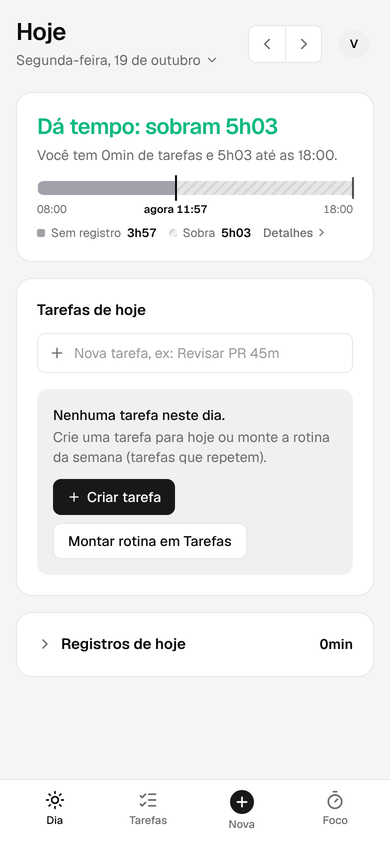
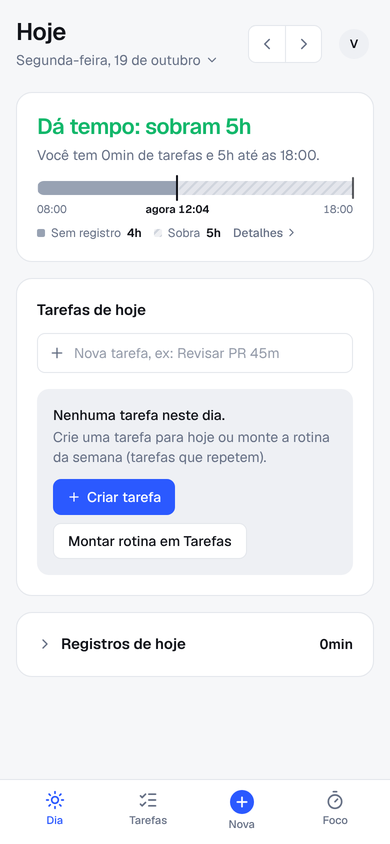
design: volta o azul de antes (Grafite ficou sem vida)
Mantém as melhorias de layout; só as cores, o ícone e as abas voltam.

Claude-Session: https://claude.ai/code/session_011nKegygvConS1RQqhHr1hx

diff --git a/src/app/globals.css b/src/app/globals.css
@@ -1,42 +1,42 @@
 @import "tailwindcss";
 
 /*
-  Identidade "Grafite": ação em preto (brand), cor só para informação.
   Cores com significado fixo em todo o app:
-  feito = verde · falta = azul · livre = hachurado · excesso = vermelho · accent = links
+  feito = verde · falta = azul (também a cor de ação: brand) · livre = hachurado · excesso = vermelho
+  (Grafite, com ação em preto, foi testado em 19/10 e descartado: ficou sem vida.)
 */
 :root {
-  --bg: #f5f5f4;
+  --bg: #f6f7f9;
   --surface: #ffffff;
-  --sunken: #f0f0ef;
-  --ink: #0c0c0d;
-  --muted: #6b6b70;
-  --line: #e7e7e5;
-  --brand: #18181b;
+  --sunken: #eef0f4;
+  --ink: #12141a;
+  --muted: #667085;
+  --line: #e4e7ec;
+  --brand: #2b59ff;
   --brand-ink: #ffffff;
-  --accent: #2f5fe8;
-  --done: #10b981;
-  --todo: #3b6cf6;
-  --free: #d4d4d8;
+  --accent: #2b59ff;
+  --done: #12b76a;
+  --todo: #2b59ff;
+  --free: #d0d5dd;
   --over: #f04438;
   --break: #f79009;
-  --idle: #a1a1aa;
+  --idle: #98a2b3;
 }
 
 @media (prefers-color-scheme: dark) {
   :root {
-    --bg: #0e0e10;
-    --surface: #18181b;
-    --sunken: #222226;
-    --ink: #ededee;
-    --muted: #9a9aa2;
-    --line: #2c2c31;
-    --brand: #f4f4f5;
-    --brand-ink: #0c0c0d;
-    --accent: #7c9cff;
-    --done: #34d399;
-    --todo: #6b8cff;
-    --free: #3f3f46;
+    --bg: #0d0f14;
+    --surface: #161a22;
+    --sunken: #1d222c;
+    --ink: #eceef2;
+    --muted: #8b93a5;
+    --line: #262c38;
+    --brand: #5b7fff;
+    --brand-ink: #ffffff;
+    --accent: #5b7fff;
+    --done: #32d583;
+    --todo: #5b7fff;
+    --free: #3a4150;
     --over: #f97066;
     --break: #fdb022;
     --idle: #5d6679;

diff --git a/src/components/App.tsx b/src/components/App.tsx
@@ -178,7 +178,7 @@ export function Shell() {
               className={cx(
                 "flex items-center gap-3 rounded-lg text-sm font-medium transition-colors",
                 collapsed ? "h-10 w-10 justify-center" : "w-full px-3 py-2",
-                isActive(t.id) ? "bg-sunken text-ink" : "text-muted hover:bg-sunken hover:text-ink",
+                isActive(t.id) ? "bg-todo/10 text-todo" : "text-muted hover:bg-sunken hover:text-ink",
               )}
             >
               <t.icon size={18} /> {!collapsed && t.label}
@@ -311,7 +311,7 @@ function LoadingSkeleton() {
 
 function MobileTab({ active, onClick, icon: Icon, label }: { active: boolean; onClick: () => void; icon: typeof Sun; label: string }) {
   return (
-    <button onClick={onClick} className={cx("flex flex-1 flex-col items-center gap-0.5 py-1 text-[11px] font-medium", active ? "text-ink" : "text-muted")}>
+    <button onClick={onClick} className={cx("flex flex-1 flex-col items-center gap-0.5 py-1 text-[11px] font-medium", active ? "text-todo" : "text-muted")}>
       <Icon size={20} />
       {label}
     </button>

diff --git a/src/components/LogTimeForm.tsx b/src/components/LogTimeForm.tsx
@@ -162,7 +162,7 @@ export function LogTimeForm({ task, onClose }: { task: Task; onClose: () => void
               </button>
               <button
                 onClick={() => start("pomodoro")}
-                className="flex h-14 items-center justify-center gap-2 rounded-xl border border-line font-semibold text-ink hover:bg-sunken"
+                className="flex h-14 items-center justify-center gap-2 rounded-xl border border-brand/40 font-semibold text-brand hover:bg-brand/[0.06]"
               >
                 <TimerIcon size={16} /> Pomodoro {settings.focusMin}min
               </button>

diff --git a/src/app/manifest.ts b/src/app/manifest.ts
@@ -7,8 +7,8 @@ export default function manifest(): MetadataRoute.Manifest {
     description: "Quanto cabe no seu dia, quanto já foi feito e quanto ainda sobra.",
     start_url: "/",
     display: "standalone",
-    background_color: "#f5f5f4",
-    theme_color: "#f5f5f4",
+    background_color: "#f6f7f9",
+    theme_color: "#f6f7f9",
     icons: [{ src: "/icon.svg", sizes: "any", type: "image/svg+xml" }],
   };
 }

diff --git a/src/app/layout.tsx b/src/app/layout.tsx
@@ -11,8 +11,8 @@ export const metadata: Metadata = {
 
 export const viewport: Viewport = {
   themeColor: [
-    { media: "(prefers-color-scheme: light)", color: "#f5f5f4" },
-    { media: "(prefers-color-scheme: dark)", color: "#0e0e10" },
+    { media: "(prefers-color-scheme: light)", color: "#f6f7f9" },
+    { media: "(prefers-color-scheme: dark)", color: "#0d0f14" },
   ],
 };
 

diff --git a/CLAUDE.md b/CLAUDE.md
@@ -116,7 +116,7 @@ Toda mudança de conta ganha teste em `metrics.test.ts`.
 
 - **Next 16**: confira a doc em `node_modules/next/dist/docs/` antes de usar APIs de rota/servidor. `AGENTS.md` é mantido pelo `next dev`; se ele aparecer modificado, commite junto (o próprio arquivo pede isso).
 - **React Compiler lint** (`react-hooks/purity`, `set-state-in-effect`): nada de `Date.now()` no render; use `useNow()` (`Timer.tsx`) ou estado iniciado em efeito.
-- **Cores** (`globals.css`): `brand` = ação (preto no claro, quase branco no escuro; texto em cima é `text-brand-ink`, nunca `text-white`); `accent` = links; `done`/`todo`/`over`/`idle` = significado nos dados. Não use `todo` para botão.
+- **Cores** (`globals.css`): `brand` = ação (azul; texto em cima é `text-brand-ink`); `accent` = links; `done`/`todo`/`over`/`idle` = significado nos dados. O dono preferiu o azul ao visual preto e branco (ver decisões).
 - **Não rode prettier no arquivo inteiro**: o projeto usa linhas longas (~160) e não tem config; o diff vira ruído.
 - **Fuso**: datas de dia são chaves locais `yyyy-MM-dd` (`dates.ts`); não use `toISOString().slice(0,10)` para dia.
 - **Prévia** (`/dev`): uid `preview` (`src/lib/preview.ts`), nada é salvo; `TimeEntries` lê o histórico da prévia em vez do Firestore. Código de produção não importa `src/dev/` (só a página `/dev`), para os dados de exemplo não irem para o pacote. Em produção `/dev` devolve 404.

diff --git a/docs/decisoes.md b/docs/decisoes.md
@@ -10,7 +10,7 @@ Registro do que foi decidido, e por quê, para não refazer o que já foi descar
 - **Azul forte só para ação.** ▶ da linha em contorno (azul só rodando); dias ligados em azul claro (Tarefas e formulário). Seta › da linha da tarefa saiu (a linha toda abre).
 - **Registros: tocar na linha edita** (lápis e lixeira saíram da lista; apagar fica na edição).
 - Barra do timer compacta; escolha de tarefa do Foco em lista própria; dia da tarefa com Hoje · Amanhã · Outro dia.
-- **Identidade "Grafite"** (escolhida entre 3 opções; "Papel", com fundo creme, pareceu pouco profissional): botões de ação em preto (`brand`), cor só para informação (verde feito, azul a fazer, vermelho não cabe); links em `accent` (azul). Ícone preto com o primeiro trecho verde.
+- **Identidade: fica o azul de antes.** Testadas 3 opções; "Papel" (fundo creme) pareceu pouco profissional; "Grafite" (ações em preto) foi aplicada e revertida no mesmo dia porque ficou "preto e branco, sem vida".
 - **Adiado:** grade semanal de horas e semana em colunas com arrastar (Sunsama). Avaliado como pouco útil agora porque a maior parte da rotina repete; rever se mudar tarefas de dia virar rotina.
 
 ### 19/10 — Os 18 pontos da análise
